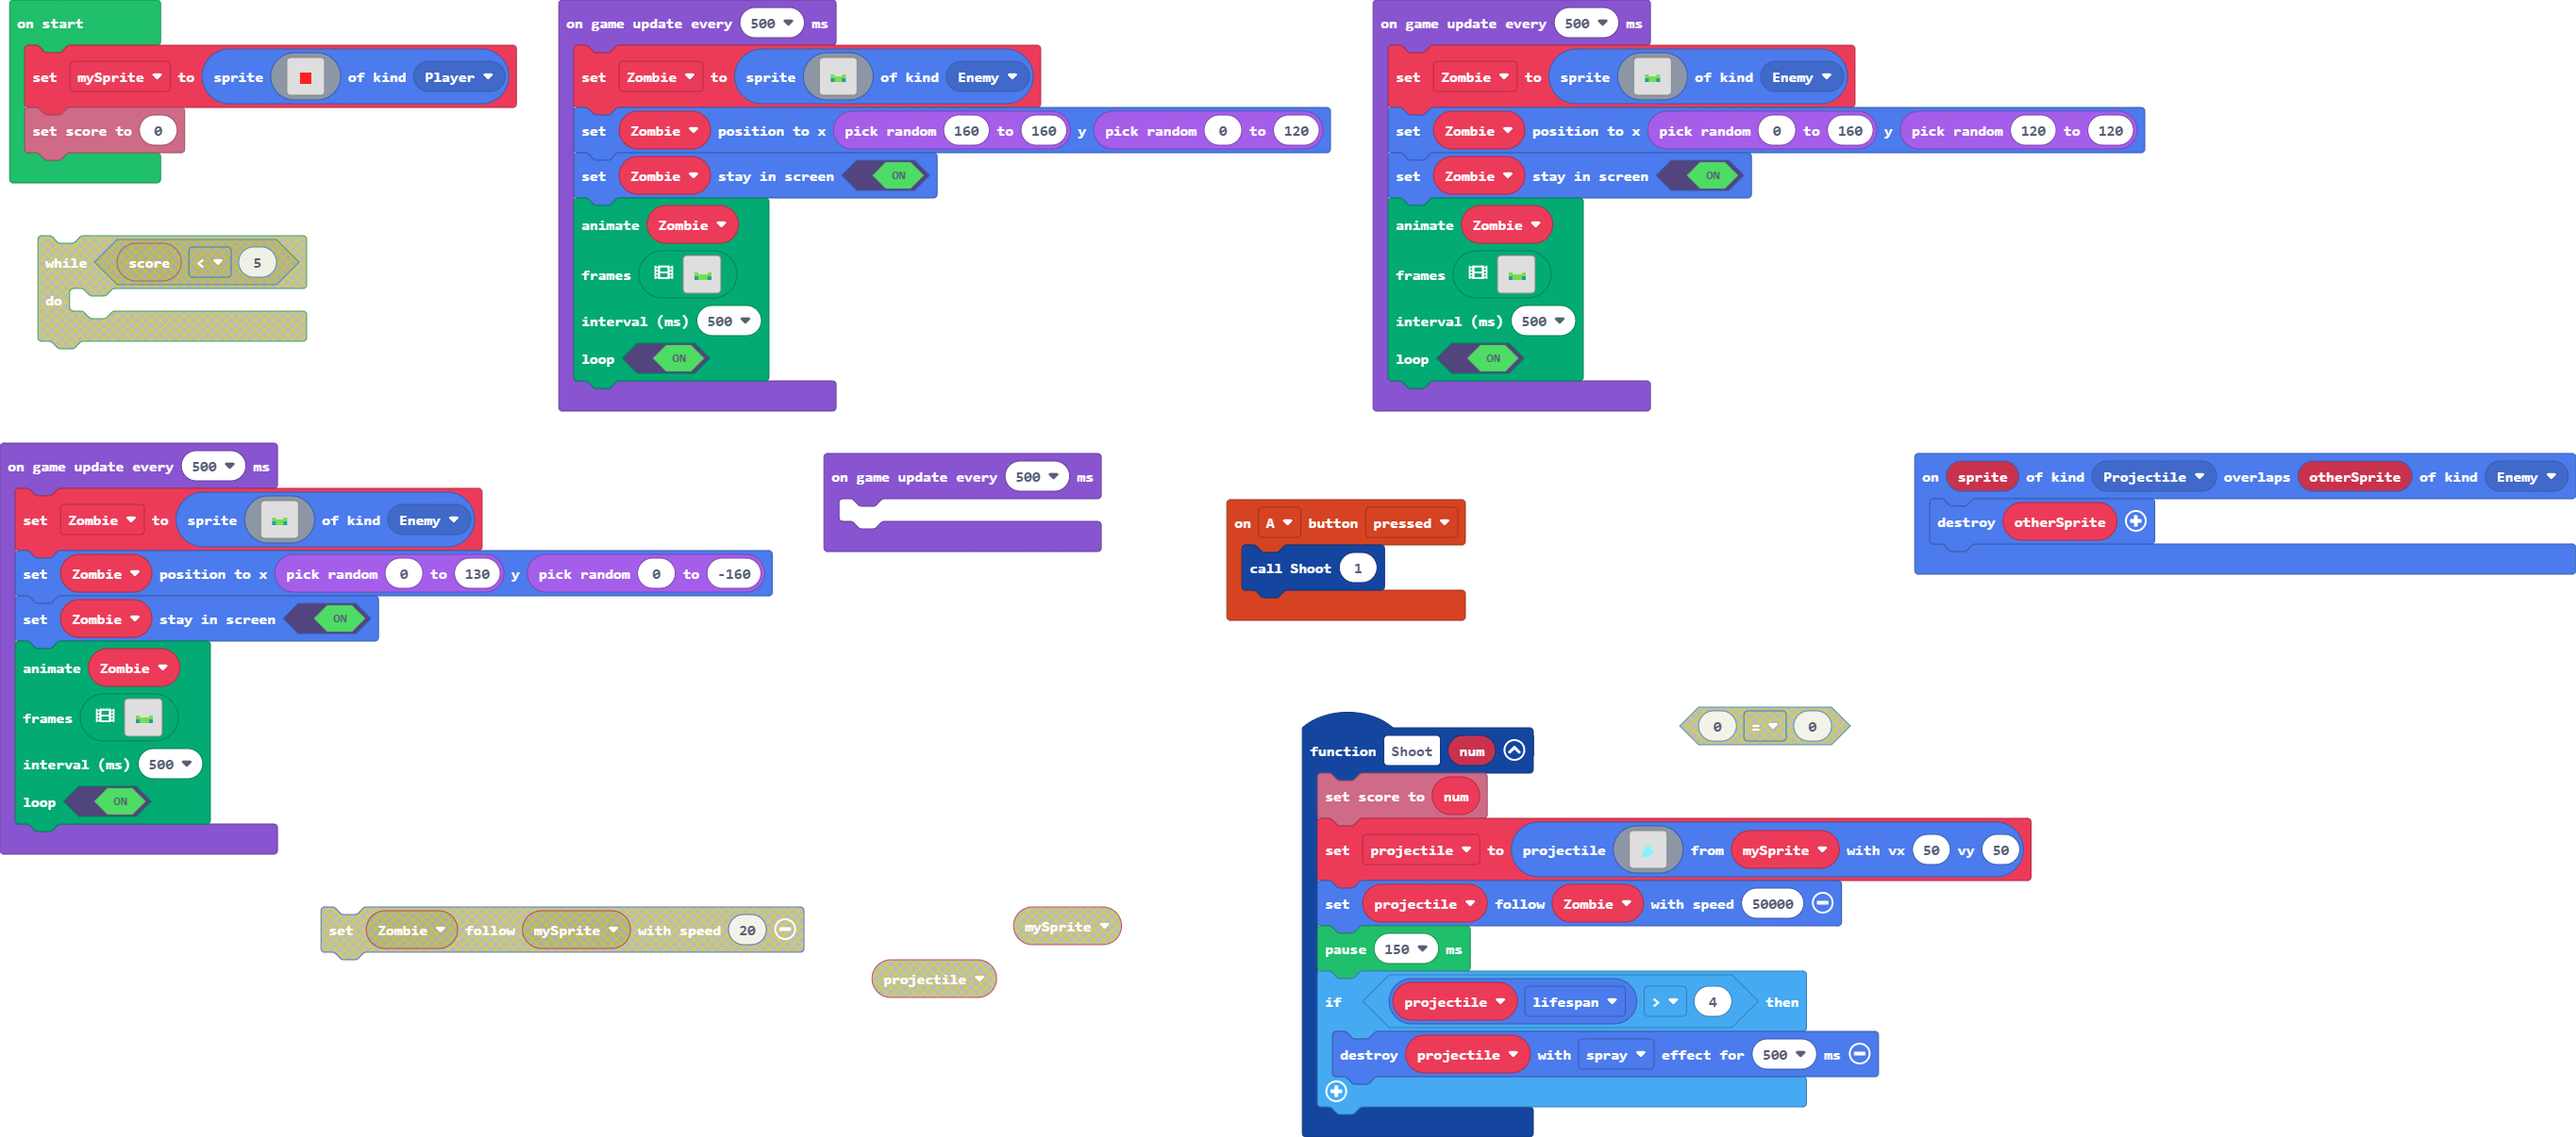
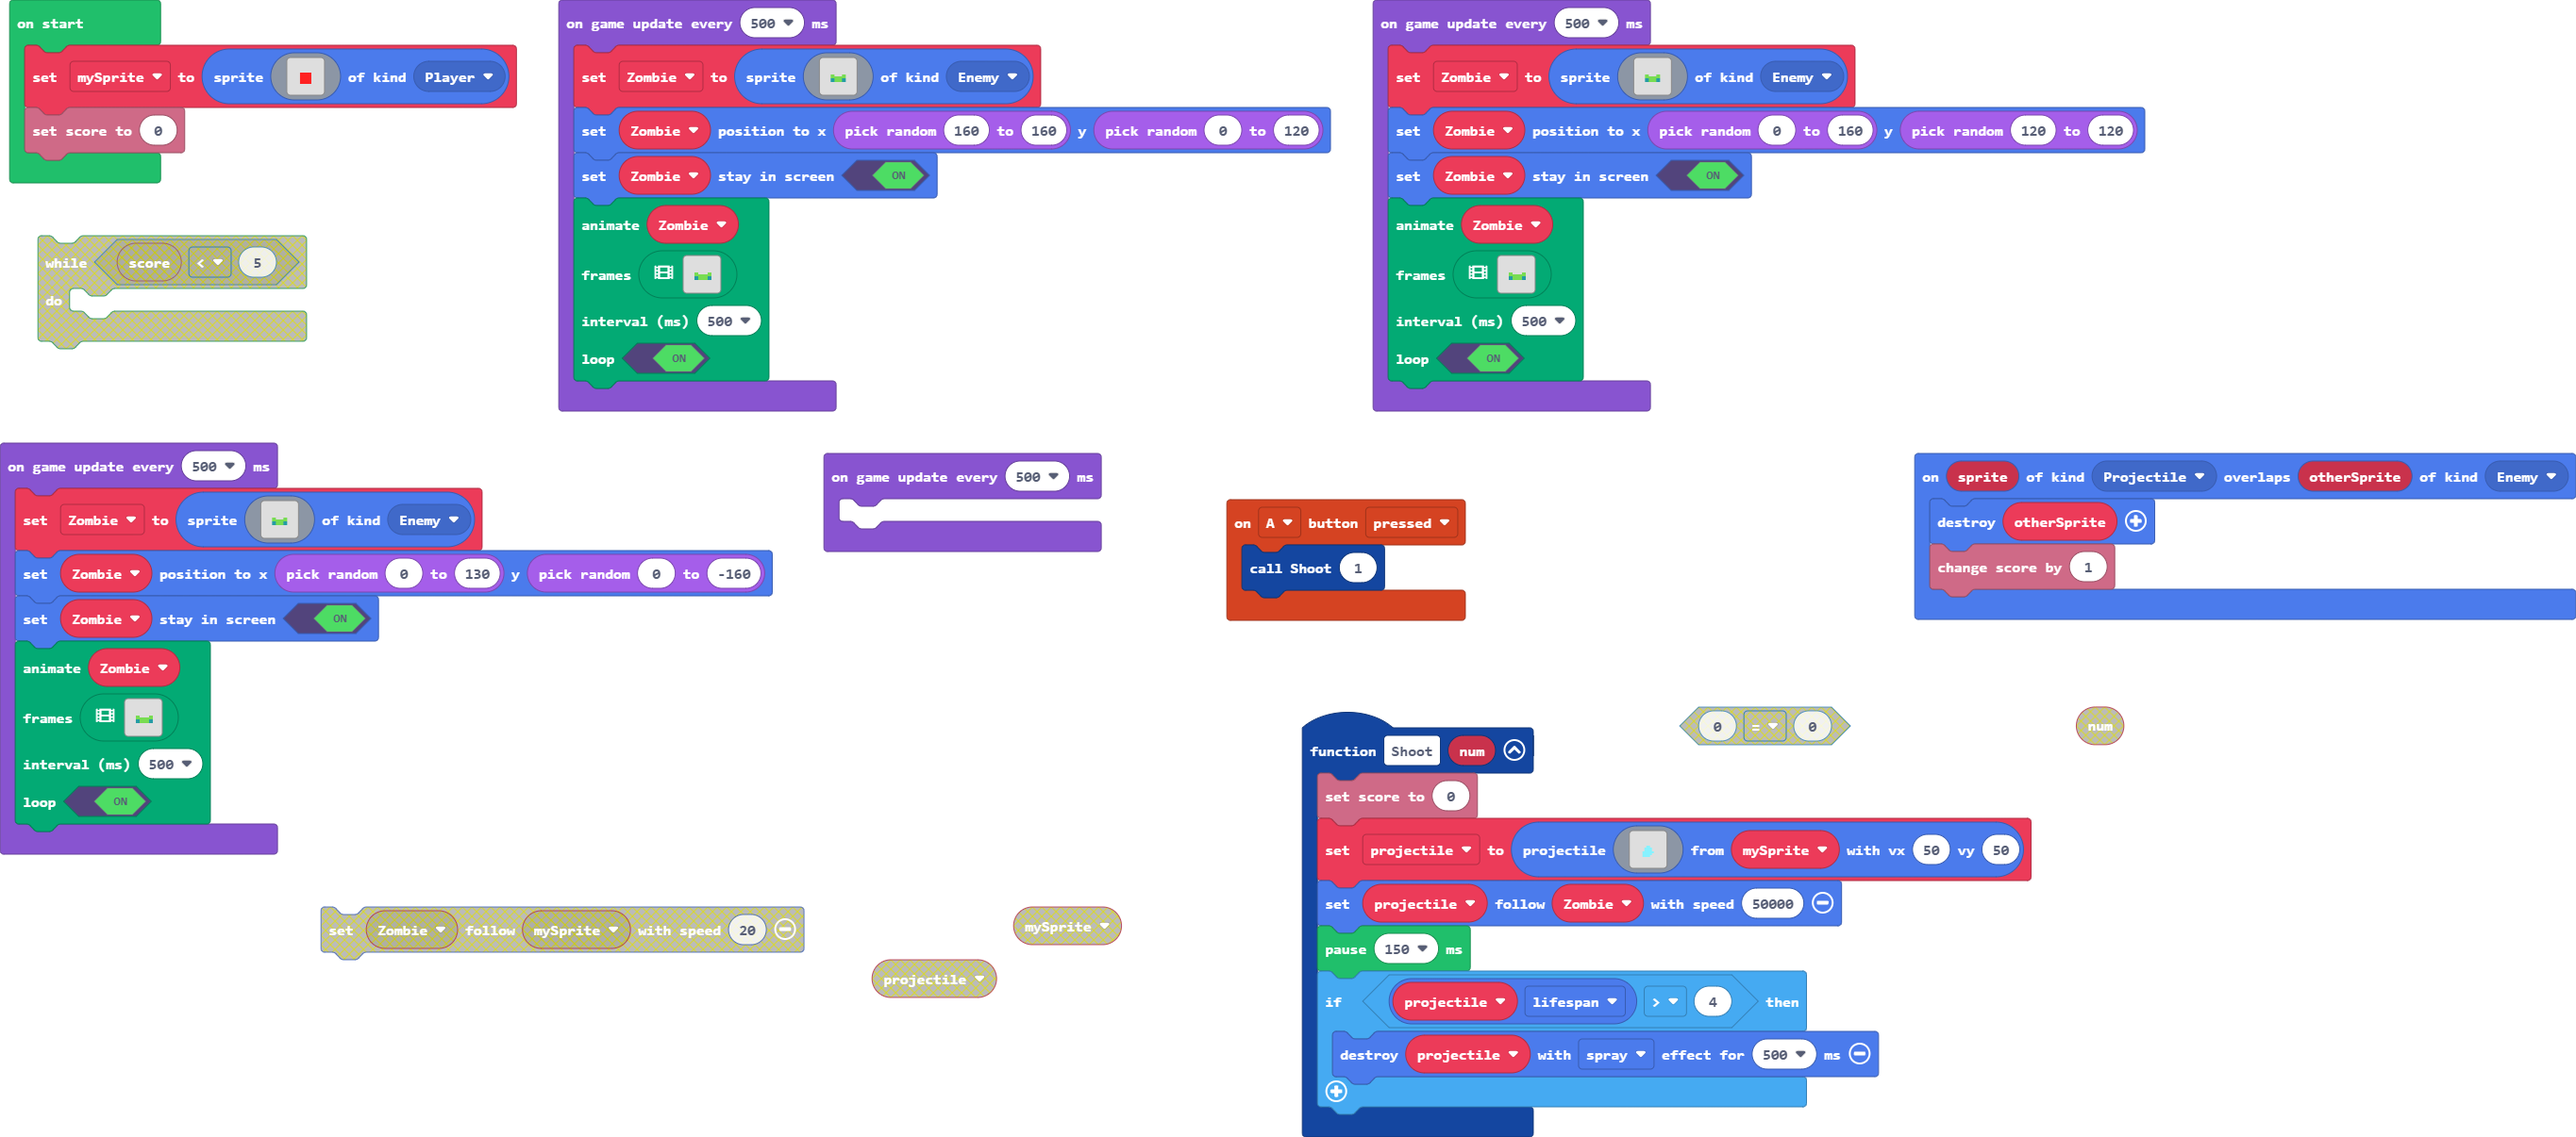
Update main.blocks, main.ts

Changed region(s): [[0.7161, 0.4602, 1.0, 0.5522], [0.8095, 0.6136, 0.8407, 0.675], [0.5604, 0.675, 0.5916, 0.7363]]

diff --git a/main.ts b/main.ts
@@ -2,7 +2,7 @@ controller.A.onEvent(ControllerButtonEvent.Pressed, function () {
     Shoot(1)
 })
 function Shoot (num: number) {
-    info.setScore(num)
+    info.setScore(0)
     projectile = sprites.createProjectileFromSprite(img`
         . . . . . . . . . . . . . . . . 
         . . . . . . . . . . . . . . . . 
@@ -29,6 +29,7 @@ function Shoot (num: number) {
 }
 sprites.onOverlap(SpriteKind.Projectile, SpriteKind.Enemy, function (sprite, otherSprite) {
     sprites.destroy(otherSprite)
+    info.changeScoreBy(1)
 })
 let Zombie: Sprite = null
 let projectile: Sprite = null
